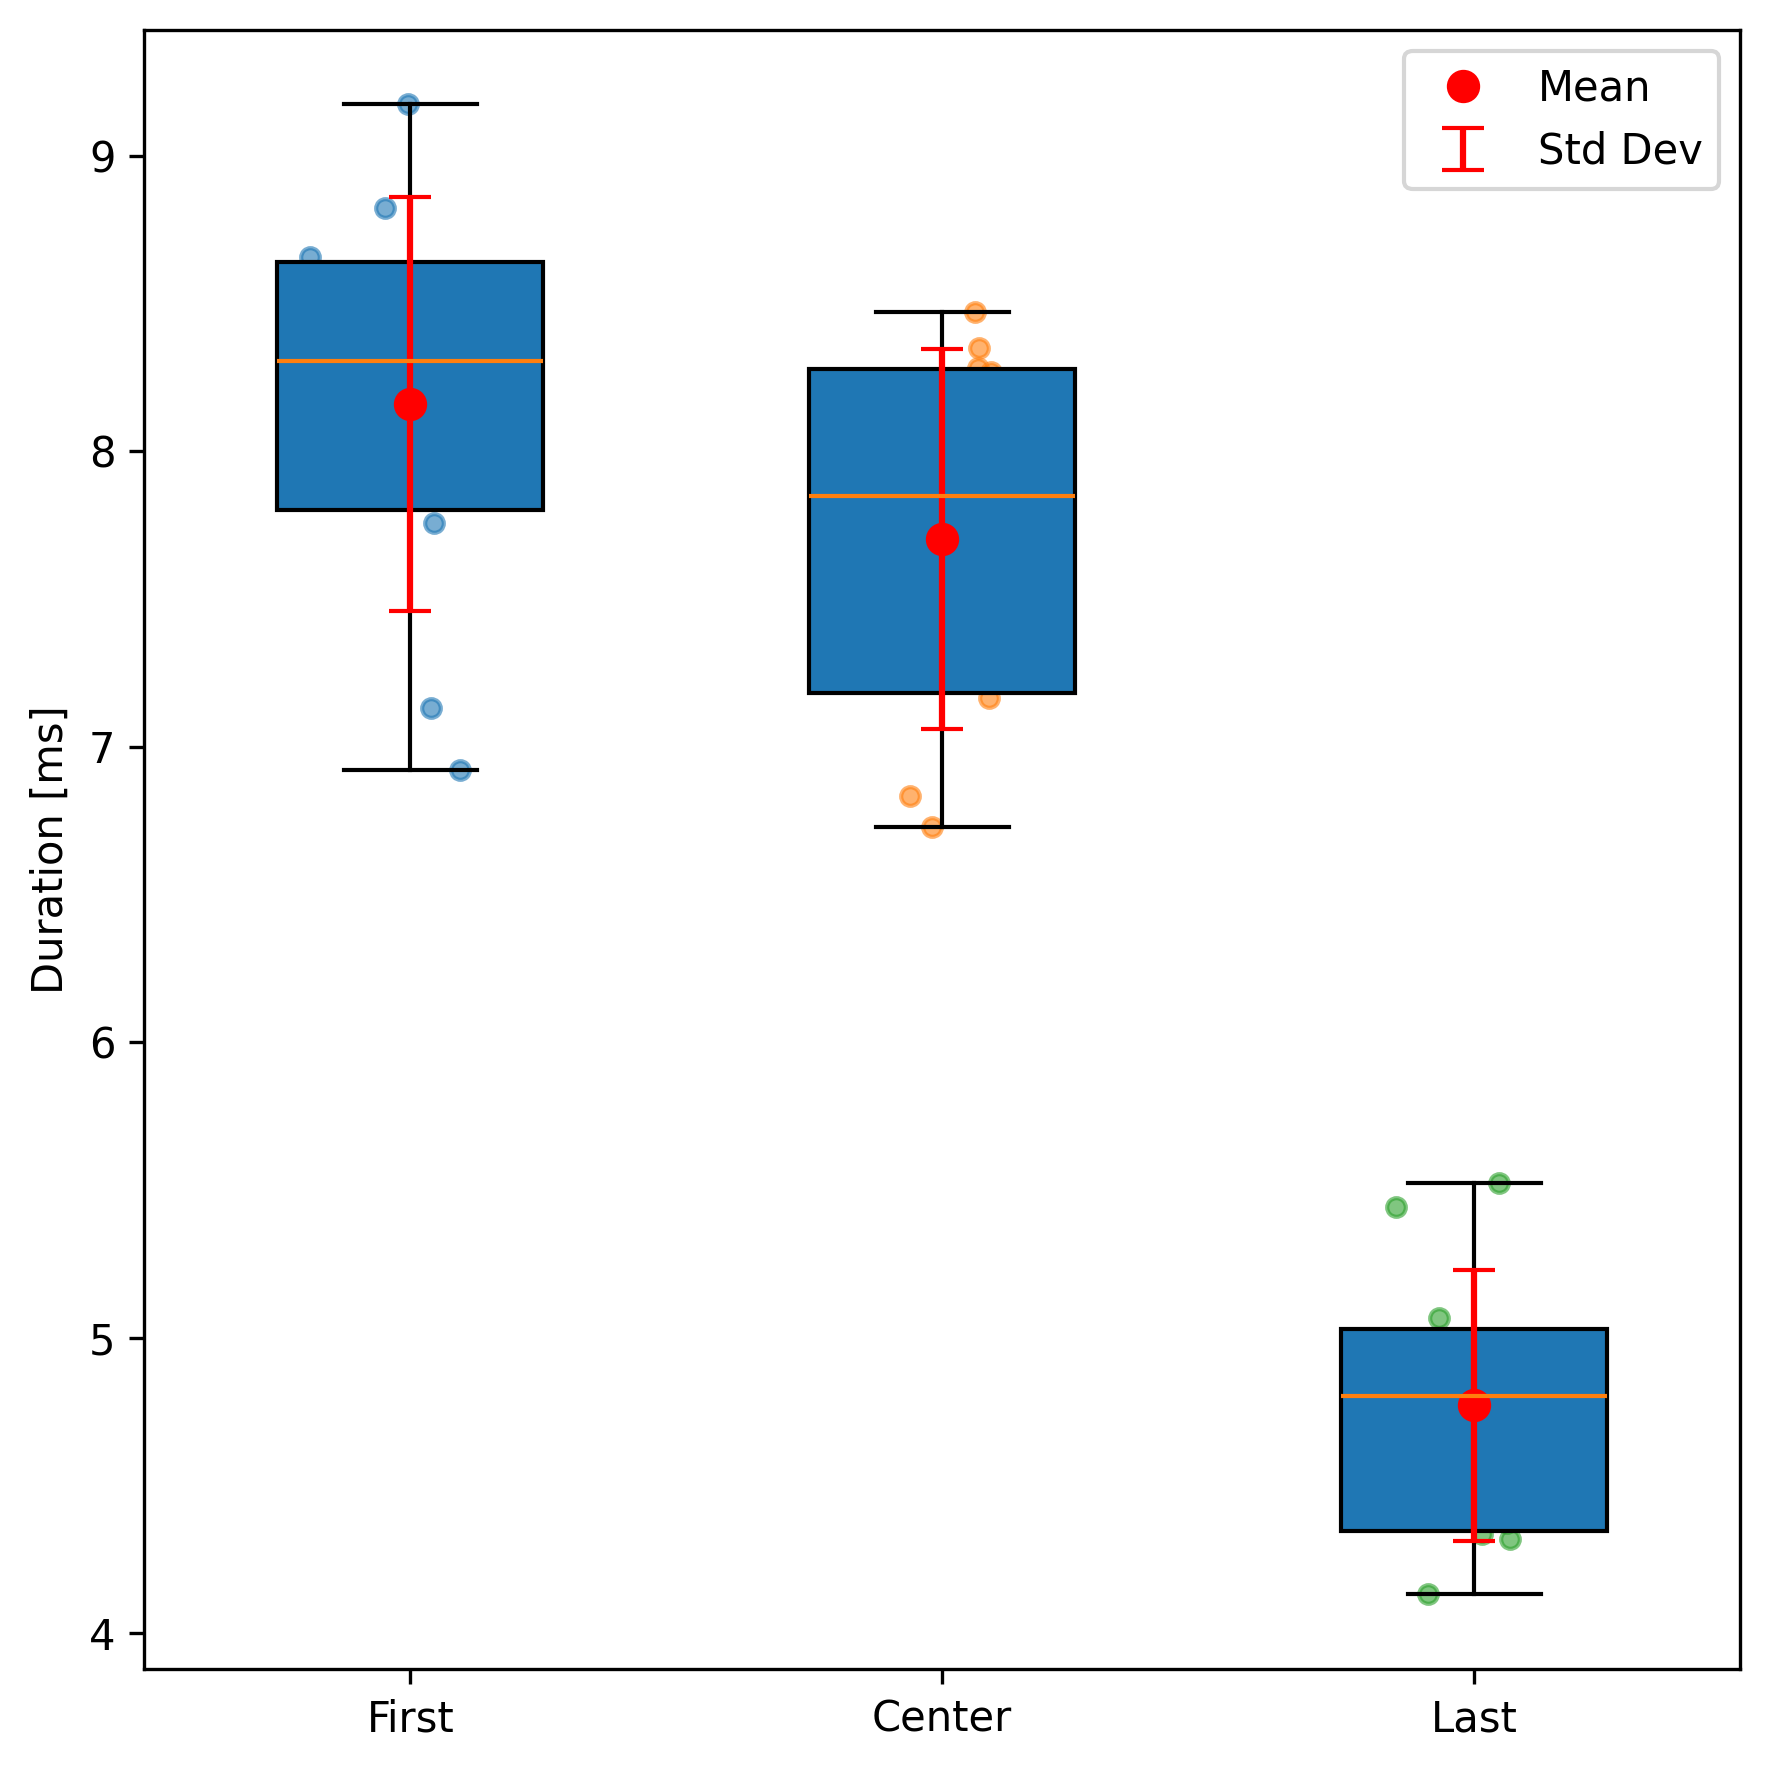
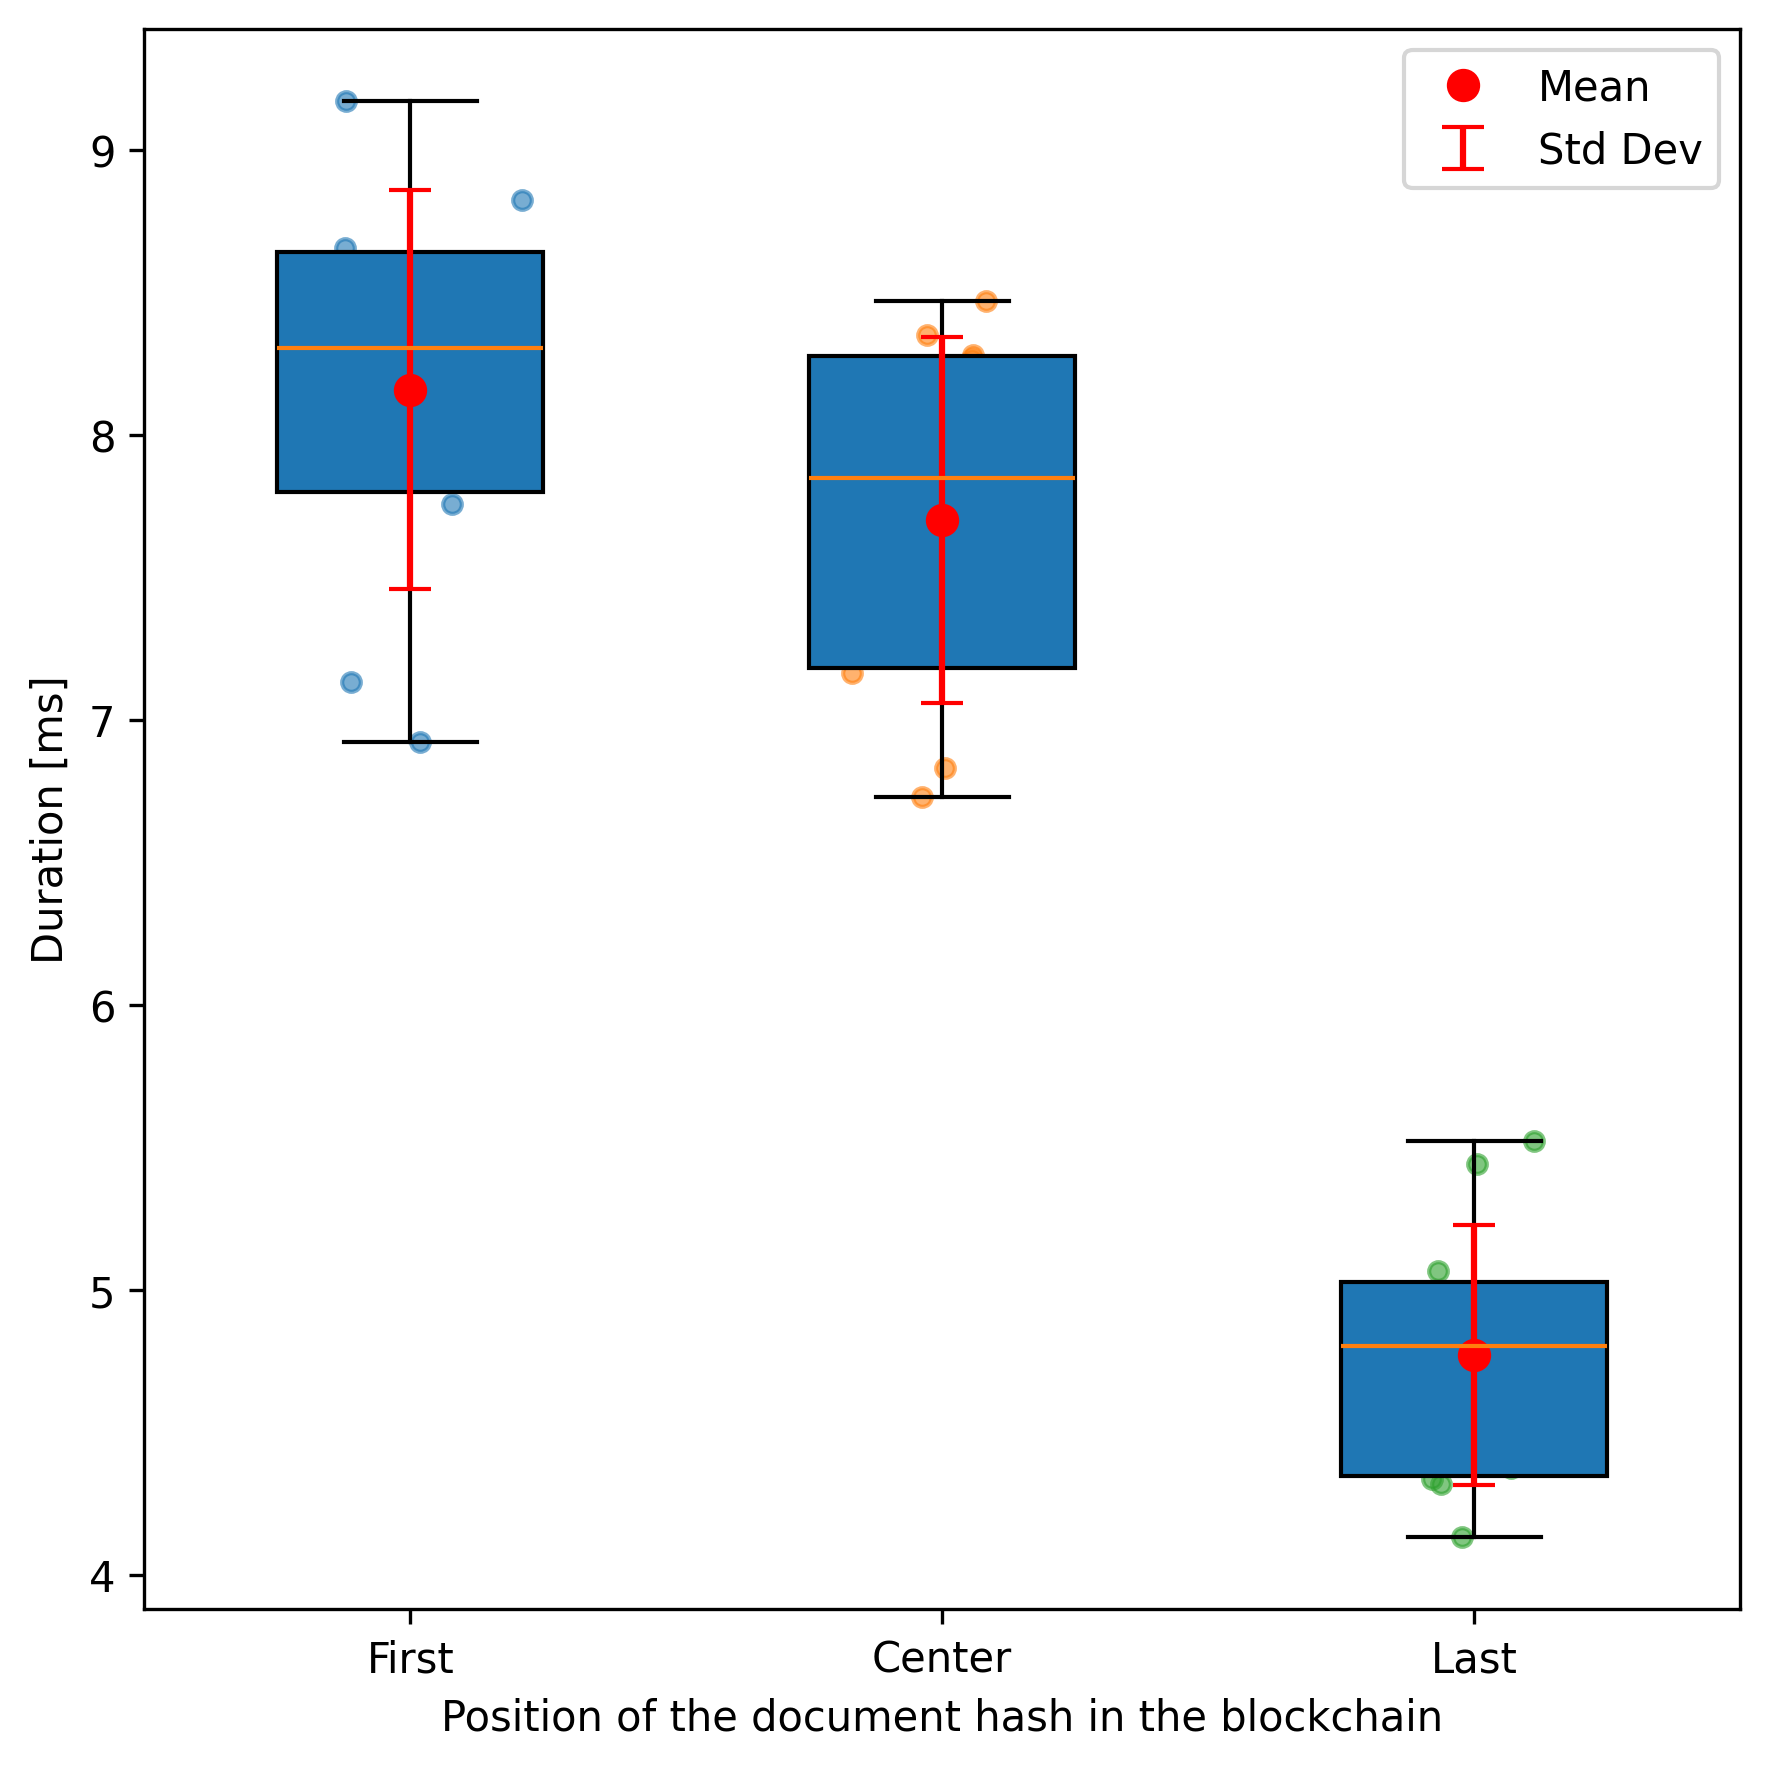
v7.3.6

diff --git a/results/long_box_plot.py b/results/long_box_plot.py
@@ -5,10 +5,10 @@ from pathlib import Path
 
 forDb = False
 files = {
-    20:    Path("Long/Batch/Id/getById_checkpoint_results_20.xlsx"),
-    2000:  Path("Long/Batch/Id/getById_checkpoint_results_2000.xlsx"),
-    8000:  Path("Long/Batch/Id/getById_checkpoint_results_8000.xlsx"),
-    16000: Path("Long/Batch/Id/getById_checkpoint_results_16000.xlsx"),
+    20:    Path("Long/Full/Id/getById_checkpoint_results_20.xlsx"),
+    2000:  Path("Long/Full/Id/getById_checkpoint_results_2000.xlsx"),
+    8000:  Path("Long/Full/Id/getById_checkpoint_results_8000.xlsx"),
+    16000: Path("Long/Full/Id/getById_checkpoint_results_16000.xlsx"),
 }
 sheet_name = "Results"
 groups = ["First", "Center", "Last"]
@@ -24,7 +24,7 @@ BC_COLS = {
     "Last":   "Last - Blockchain duration",
 }
 
-out_dir = Path("Long_plots/Batch/id")
+out_dir = Path("Long_plots/Full/id")
 out_dir.mkdir(parents=True, exist_ok=True)
 
 def parse_duration(val):
@@ -89,6 +89,8 @@ def plot_single(data_list, ylabel, out_png, blocks, which):
         print(f"    Std Dev = {std:.3f} ms")
 
     plt.ylabel(ylabel)
+    # plt.xlabel("Document positions in the database")
+    plt.xlabel("Position of the document hash in the blockchain")
     plt.legend()
     plt.tight_layout()
     plt.savefig(out_png, dpi=300, bbox_inches="tight")

diff --git a/results/audit_box_plot.py b/results/audit_box_plot.py
@@ -94,6 +94,7 @@ def make_multi_boxplot(values_list: list[np.ndarray],
         print(f"    Max     = {vmax:.3f} ms")
         print(f"    Mean    = {mean:.3f} ms")
         print(f"    Std Dev = {std:.3f} ms")
+        print(f"    IQR     = {q3 - q1:.3f} ms")
 
     if log_scale:
         plt.yscale("log")
